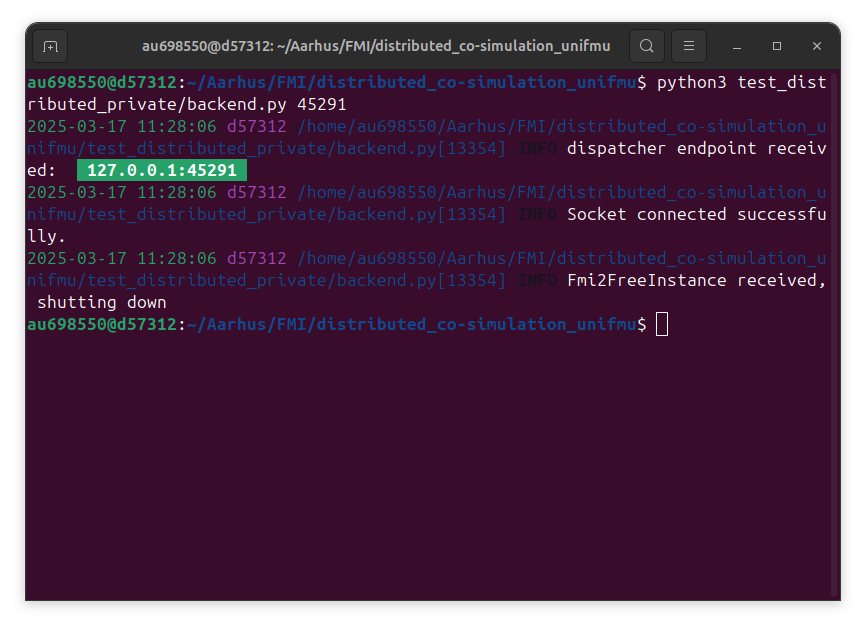
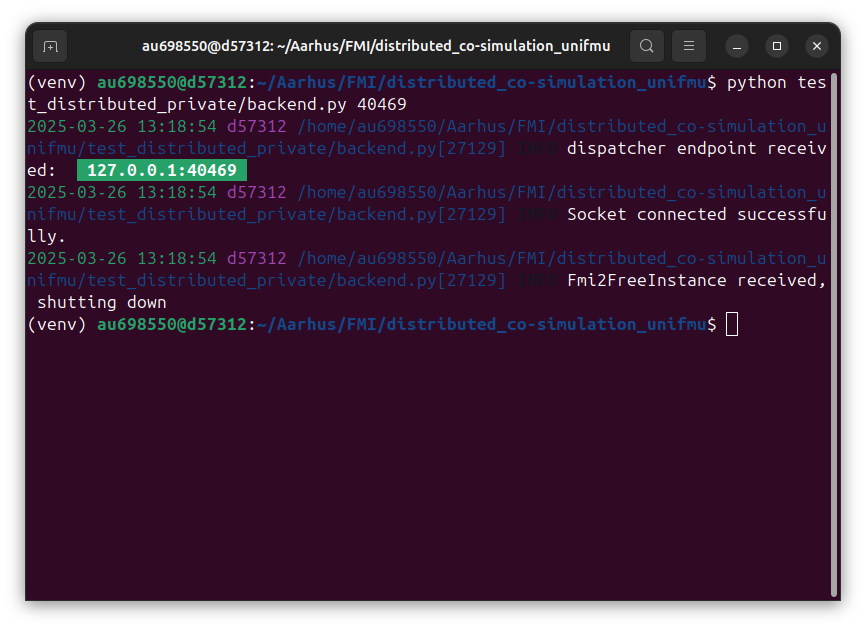
updating readme

diff --git a/readme.md b/readme.md
@@ -1,10 +1,10 @@
 # Example distributed co-simulation with UniFMU
-This repository shows two examples of how to run a distributed co-simulation using the p2p distributed feature of UniFMU.
+This repository shows two examples of how to run a distributed co-simulation using the p2p distributed feature of [UniFMU](https://github.com/INTO-CPS-Association/unifmu).
 The first example is about a co-simulation of one FMU, which is split into a proxy FMU and a remote model.
 The second example is about a co-simulation of three FMUs, in which each FMU is split into a proxy FMU-model pair.
-These examples rely on the following technologies (which need to be installed):
-- [FMPy](https://github.com/CATIA-Systems/FMPy) for the co-simulation of an individual FMU.
-- [Maestro co-simulation](https://github.com/INTO-CPS-Association/maestro) for the co-simulation of multiple FMUs.
+These examples rely on the following technologies:
+- [FMPy](https://github.com/CATIA-Systems/FMPy) for the co-simulation of an individual FMU (this is installed via pip, explained below).
+- [Maestro co-simulation](https://github.com/INTO-CPS-Association/maestro) for the co-simulation of multiple FMUs (we provide the jar file to be used in the root folder).
 
 ## Overview of the repository
 - [Example of distributed co-simulation with UniFMU](#example-distributed-co-simulation-with-unifmu)
@@ -92,14 +92,14 @@ pip install -r requirements.txt
     python test_timing_fmi2.py test_distributed_proxy.fmu
     ```
     This script will start the proxy FMU, which will wait for the model to connect to the opened port as follows:
-    ![figure Proxy FMU](./figures/proxyFMU2.png)
-    In this case, the proxy FMU opens the port `39013`. We need this port to start the model.
+    ![figure Proxy FMU](./figures/proxyFMU.png)
+    In this case, the proxy FMU opens the port `40469`. We need this port to start the model.
 4. In a different process start the model as follows (**Note:** remember to change the port accordingly and have the virtual environment activated):
     ```
-    python test_distributed_private/backend.py 39013
+    python test_distributed_private/backend.py 40469
     ```
     This will start the peer-to-peer communication between proxy and model until completion, which is seen from the model as follows:
-    ![figure private model](./figures/model2.png)
+    ![figure private model](./figures/model.png)
 5. When finished, the process that ran the `test_timing_fmi2.py` script will compute and print the time the co-simulation required for completion.
 
 ## Instructions for the co-simulation of multiple FMUs.
